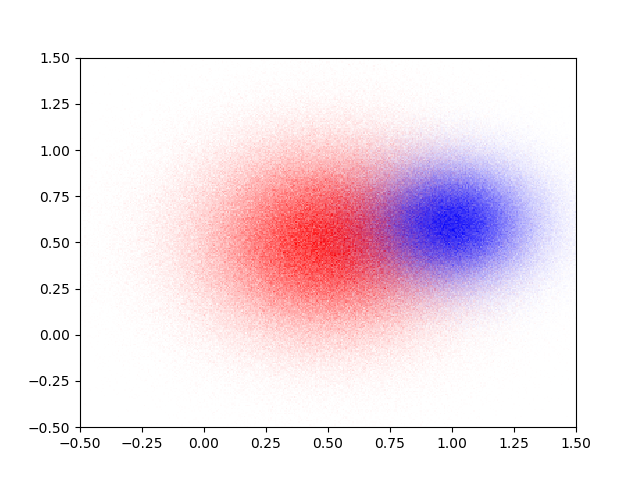
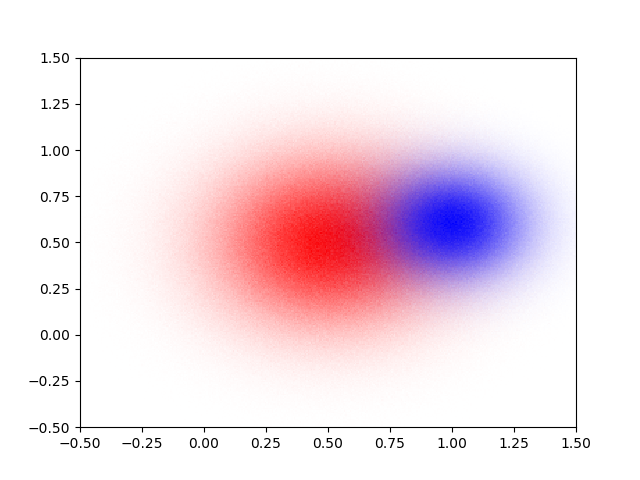
More details on datashader + Matplotlib [ci skip]

Changed region(s): [[0.3125, 0.3125, 0.8125, 0.7188]]

diff --git a/README.rst b/README.rst
@@ -102,7 +102,7 @@ Here is an example of using the ``color`` option:
     fig = plt.figure()
     ax = fig.add_subplot(1, 1, 1, projection='scatter_density')
 
-    n = 1000000
+    n = 10000000
 
     x = np.random.normal(0.5, 0.3, n)
     y = np.random.normal(0.5, 0.3, n)
@@ -153,7 +153,10 @@ mpl-scatter-density is specifically to bring datashader-like functionality to
 Matplotlib users. Furthermore, mpl-scatter-density is intended to be very easy
 to install - for example it can be installed with pip. But if you have
 datashader installed and regularly use bokeh, mpl-scatter-density won't do much
-for you.
+for you. Note that if you are interested in datashader and Matplotlib together,
+there is a work in progress (`pull request
+<https://github.com/bokeh/datashader/pull/200>`_) by @tacaswell to create a
+Matplotlib artist similar to that in this package but powered by datashader.
 
 What about vaex?
 ~~~~~~~~~~~~~~~~
